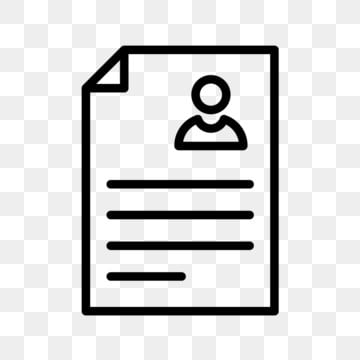
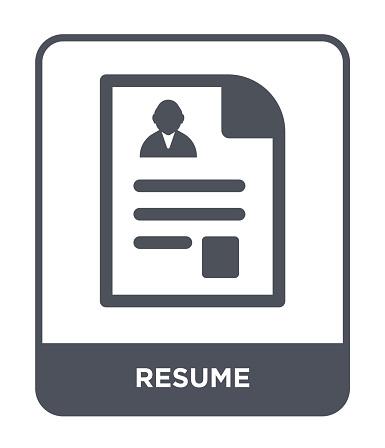
resicon

diff --git a/index.html b/index.html
@@ -18,7 +18,7 @@
 
 <div id="particles">
   <div id="intro">
-      <h2 style="font-family: 'Syncopate', sans-serif; font-weight: 10;">NOAH SOLORZANO&nbsp<a href="resume.pdf" style="color: white;"><img href="assets/clipart.jpeg" height="35" width="35"></a></h2>
+      <h2 style="font-family: 'Syncopate', sans-serif; font-weight: 10;">NOAH SOLORZANO&nbsp<a href="resume.pdf" style="color: white;"><img href="assets/iconres.jpg" height="35" width="35"></a></h2>
         <hr style="width: 50%; background-color: #E83951; border-color: #E83951;">
     <a href="https://www.linkedin.com/in/noah-solorzano-1b1389198/" style="color: white;"><i class="fab fa-linkedin" style="font-size: 2em;"></i></a>
     &nbsp
